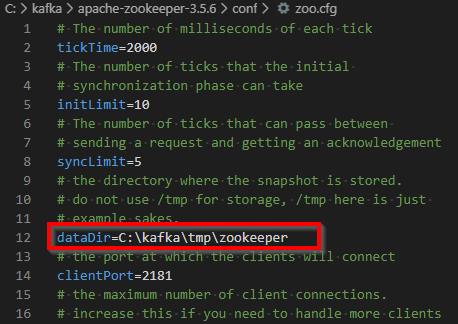
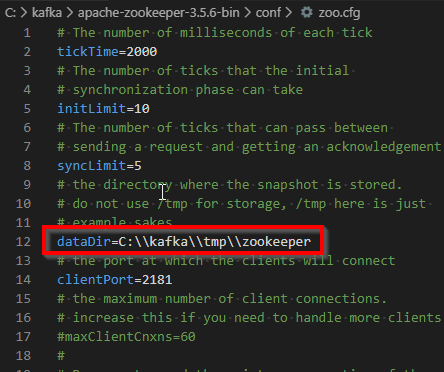
kafka installation document completed

diff --git a/content/blog/2019/kafka/index.md b/content/blog/2019/kafka/index.md
@@ -1,8 +1,8 @@
-# installation
+# Install Apache Kafka
 
 ## Required software to download
 1. [Java runtime environment](https://www.oracle.com/technetwork/java/javase/downloads/jre8-downloads-2133155.html). We need oracle account to download.
-2. [Zookeeper](http://zookeeper.apache.org/releases.html) Extract the content into a folder `C:\kafka\apache-zookeeper-3.5.6`
+2. [Zookeeper](http://zookeeper.apache.org/releases.html) Extract the content into folder `C:\kafka\apache-zookeeper-3.5.6-bin`. Download the `bin` file.
 3. [Kafka](http://kafka.apache.org/downloads.html) Extract into `C:\kafka\kafka_2.12-2.3.1`
 
 ## Java SE Runtime Environment 8
@@ -31,8 +31,51 @@ run `java -version` in command prompt to check the java installation
 
 ## Apache ZooKeeper
 
-1. Go to folder `C:\kafka\apache-zookeeper-3.5.6\conf`
+Ensure that you downloaded the `bin` file from the download location. The other file(without bin) is also having the same content but it won't work (don't know exactly why!)
+![](zookeper%20download%20bin%20file.png)
+
+### Config Zookeeper
+1. Go to folder `C:\kafka\apache-zookeeper-3.5.6-bin\conf`
 2. Copy paste the config file `zoo_sample.cfg` as `zoo.cfg`
-3. Open `zoo.cfg` file in a text editor then change the `dataDir` value to `C:\kafka\tmp\zookeeper`
+3. Open `zoo.cfg` file in a text editor then change the `dataDir` value to `C:\\kafka\\tmp\\zookeeper` (ensure double back slashes `\\` used, if in windows)
 
 ![](zookeeper%20change%20dataDir%20location.png)
+
+### Start zookeeper
+Go to `C:\kafka\apache-zookeeper-3.5.6-bin\bin` folder in command prompt then run `zkServer.cmd`
+![](start%20zookeeper.png)
+
+## Kafka
+
+### Config Kafka
+1. Open `C:\kafka\kafka_2.12-2.3.1\config\server.properties` file to make config changes.
+2. Update `log.dirs` values as `C:\\kafka\\tmp\\kafka-logs`
+
+![](kafka%20log%20config%20location.png)
+
+### Start Kafka
+1. Ensure that zookeeper is running
+2. Run below command from `C:\kafka\kafka_2.12-2.3.1` to start kafka
+`.\bin\windows\kafka-server-start.bat .\config\server.properties`
+![](start%20kafka.png)
+3. Basically we have to run `kafka-server-start.bat` file with config file as 2nd argument.
+
+# Test
+
+## Start producer
+Open a new command prompt in the location `C:\kafka\kafka_2.12-2.3.1\bin\windows`
+
+Run the below command to start a new producer
+`kafka-console-producer.bat --broker-list localhost:9092 --topic test`
+![](start%20producer%20for%20testing.png)
+
+## Start consumer
+Open one more new command prompt in the same location and run the below command to start consumer and monitor `test` topic.
+`kafka-console-consumer.bat --bootstrap-server localhost:9092 --topic test`
+![](start%20consumer.png)
+
+## Testing
+
+Type something in producer window and press enter the same message will appear in the consumer window.
+![](kafka%20producer%20and%20consumer%20window%20for%20testing.png)
+If everything works fine, congrats, you have successfully started kafka. :)
